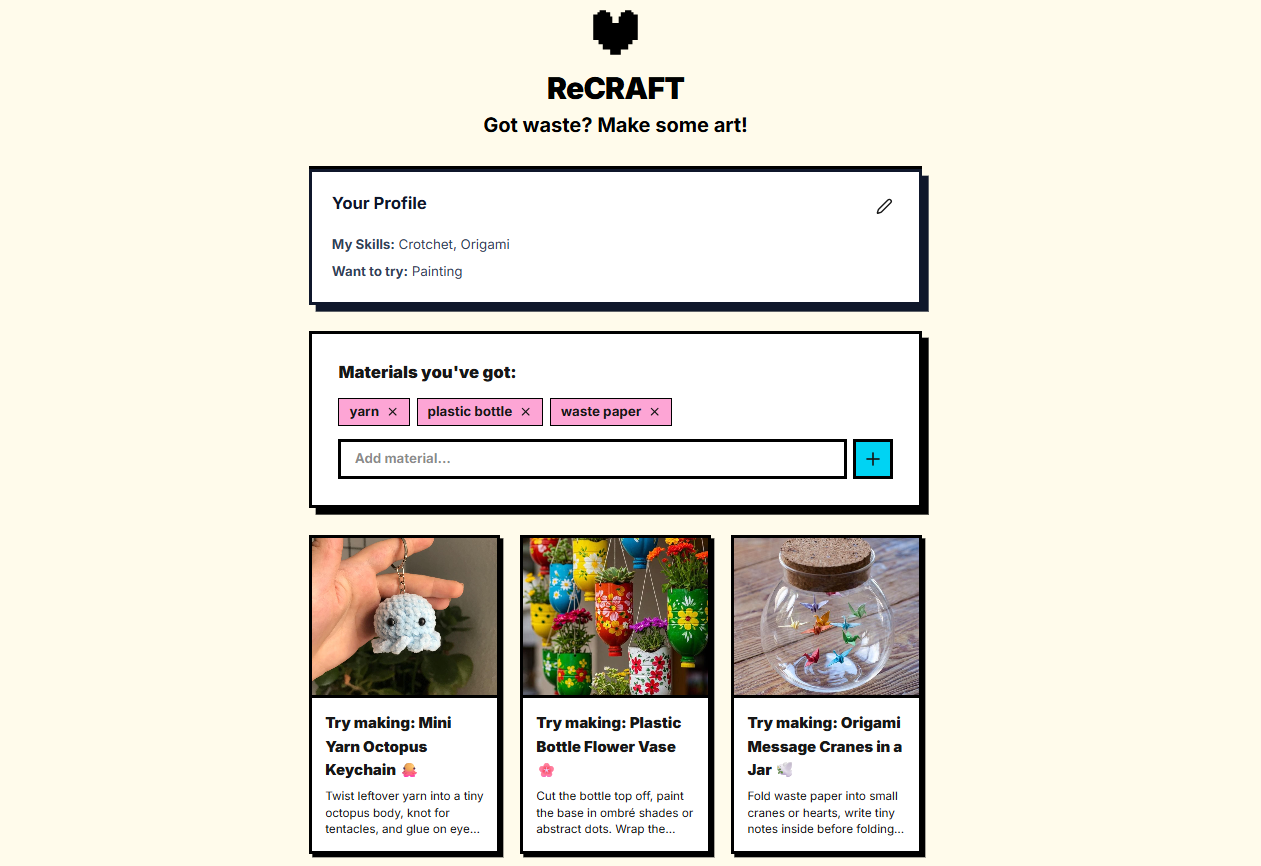
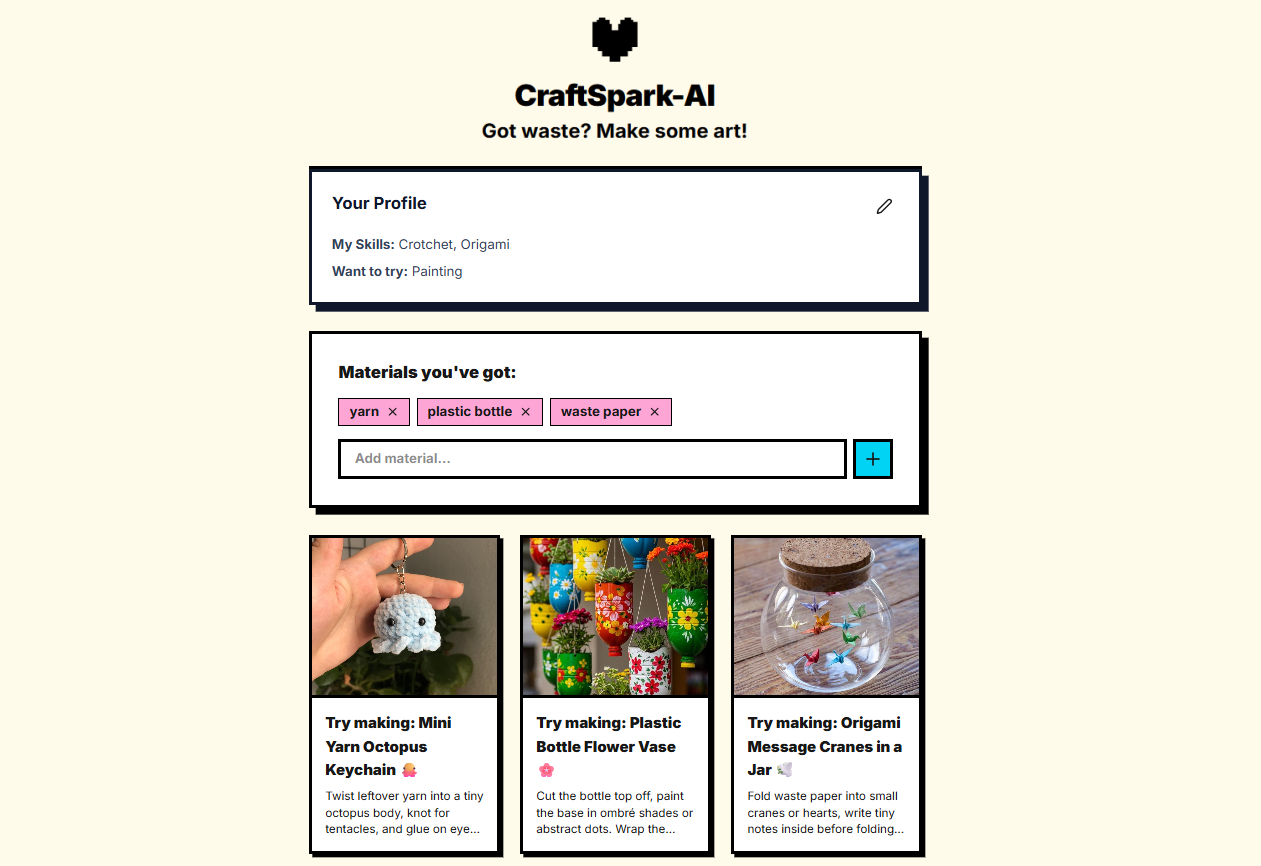
upload changes

Changed region(s): [[0.3711, 0.0, 0.5876, 0.1559]]

diff --git a/src/components/Header.jsx b/src/components/Header.jsx
@@ -7,7 +7,7 @@ export default function Header() {
         <div className="w-16 h-16 mx-auto mb-4">
           <img src={logos.heartIcon} alt="heart" width={64} height={64} />
         </div>
-        <h1 className="text-3xl md:text-4xl font-black mb-2 text-black tracking-tight">ReCRAFT</h1>
+        <h1 className="text-3xl md:text-4xl font-black mb-2 text-black tracking-tight">CraftSpark-AI</h1>
         <p className="text-xl md:text-2xl font-bold text-black">Got waste? Make some art!</p>
       </div>
     </header>
